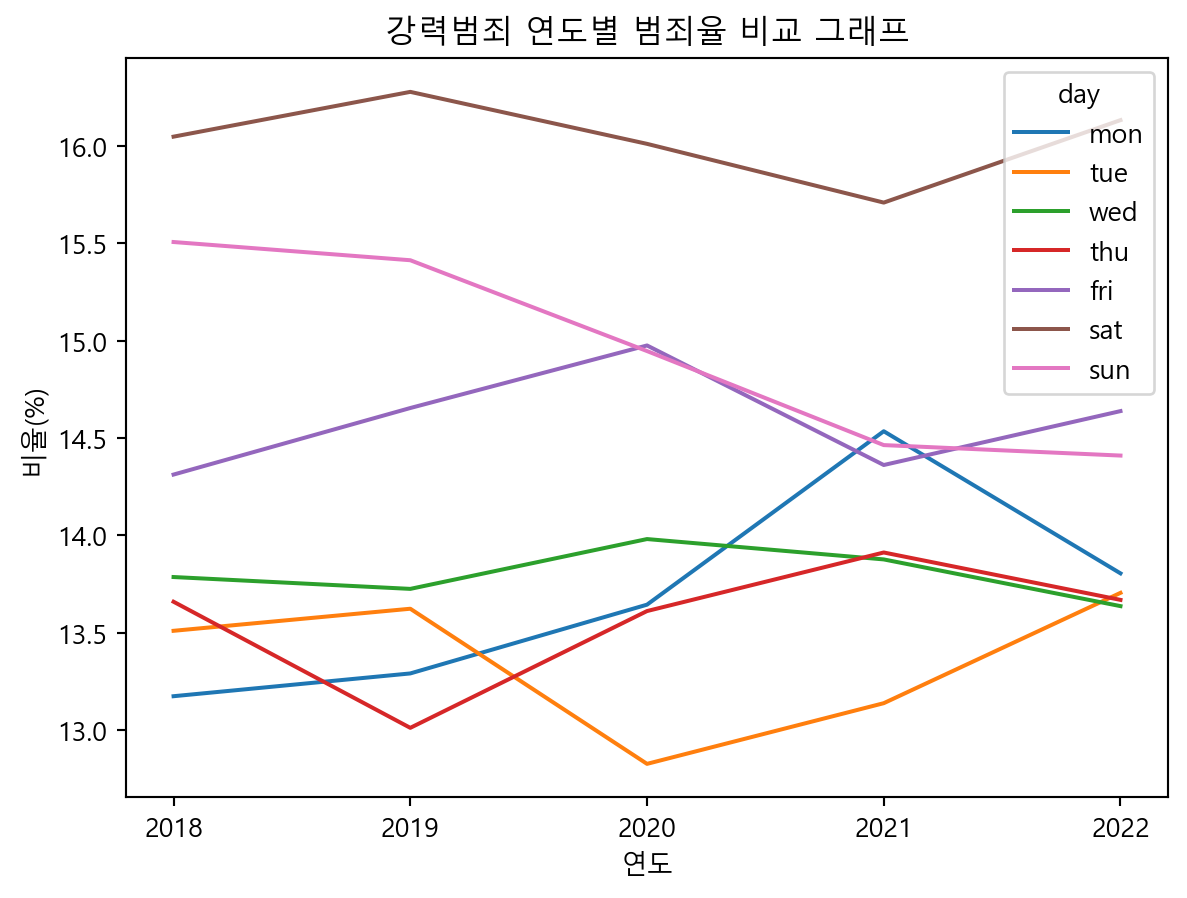
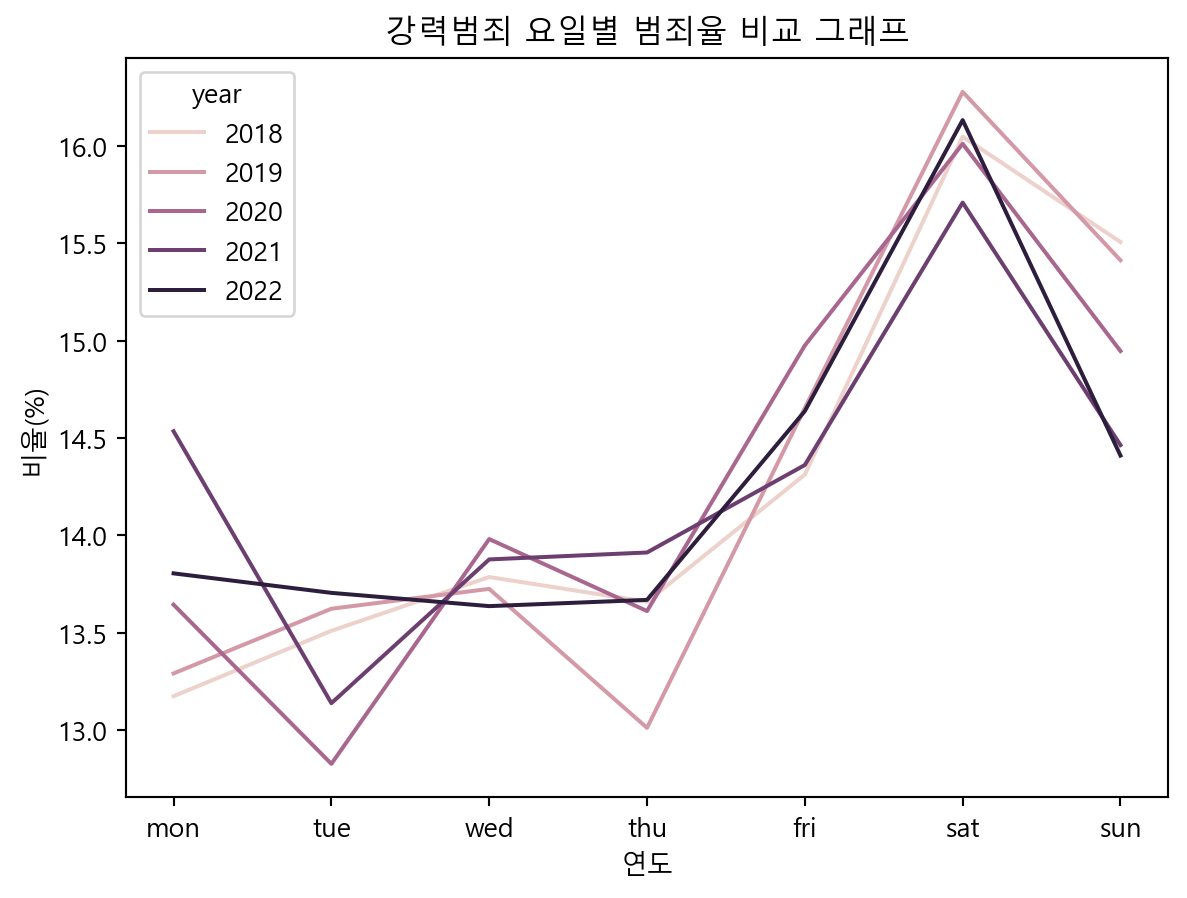
update5 - 0723

diff --git a/docs/index.html b/docs/index.html
@@ -103,7 +103,10 @@ pre > code.sourceCode > span > a:first-child::before { text-decoration: underlin
 }</script>
 <script src="https://cdnjs.cloudflare.com/ajax/libs/require.js/2.3.6/require.min.js" integrity="sha512-c3Nl8+7g4LMSTdrm621y7kf9v3SDPnhxLNhcjFJbKECVnmZHTdo+IRO05sNLTH/D3vA6u1X32ehoLC7WFVdheg==" crossorigin="anonymous"></script>
 
+
+
 <script type="application/javascript">define('jquery', [],function() {return window.jQuery;})</script>
+
 
 
 <link rel="stylesheet" href="styles.css">
@@ -217,7 +220,7 @@ pre > code.sourceCode > span > a:first-child::before { text-decoration: underlin
 <hr>
 <section id="데이터-로드" class="level3">
 <h3 class="anchored" data-anchor-id="데이터-로드"><strong>[데이터 로드]</strong></h3>
-<div id="f1536fa5" class="cell" data-execution_count="1">
+<div id="fb02dbea" class="cell" data-execution_count="1">
 <div class="sourceCode cell-code" id="cb1"><pre class="sourceCode python code-with-copy"><code class="sourceCode python"><span id="cb1-1"><a href="#cb1-1" aria-hidden="true" tabindex="-1"></a><span class="co"># 0. 패키지 로드</span></span>
 <span id="cb1-2"><a href="#cb1-2" aria-hidden="true" tabindex="-1"></a><span class="im">import</span> pandas <span class="im">as</span> pd</span>
 <span id="cb1-3"><a href="#cb1-3" aria-hidden="true" tabindex="-1"></a><span class="im">import</span> numpy <span class="im">as</span> np</span>
@@ -237,7 +240,7 @@ pre > code.sourceCode > span > a:first-child::before { text-decoration: underlin
 </section>
 <section id="변수명-변경" class="level3">
 <h3 class="anchored" data-anchor-id="변수명-변경"><strong>[변수명 변경]</strong></h3>
-<div id="a68c0b61" class="cell" data-execution_count="2">
+<div id="4c86ba8e" class="cell" data-execution_count="2">
 <div class="sourceCode cell-code" id="cb2"><pre class="sourceCode python code-with-copy"><code class="sourceCode python"><span id="cb2-1"><a href="#cb2-1" aria-hidden="true" tabindex="-1"></a><span class="co"># 3. 열 이름, 원소 이름 변경</span></span>
 <span id="cb2-2"><a href="#cb2-2" aria-hidden="true" tabindex="-1"></a><span class="co">## 열 이름 변경</span></span>
 <span id="cb2-3"><a href="#cb2-3" aria-hidden="true" tabindex="-1"></a><span class="co">### 강력범죄는 s_, 폭력범죄는 g_, 지능범죄는 i_로 시작하도록 변경</span></span>
@@ -265,12 +268,218 @@ pre > code.sourceCode > span > a:first-child::before { text-decoration: underlin
 <span id="cb2-25"><a href="#cb2-25" aria-hidden="true" tabindex="-1"></a>                       <span class="dv">15</span>, <span class="dv">16</span>, <span class="dv">17</span>, <span class="dv">18</span>, <span class="dv">19</span>, <span class="dv">20</span>, <span class="dv">14</span>,</span>
 <span id="cb2-26"><a href="#cb2-26" aria-hidden="true" tabindex="-1"></a>                       <span class="dv">22</span>, <span class="dv">23</span>, <span class="dv">24</span>, <span class="dv">25</span>, <span class="dv">26</span>, <span class="dv">27</span>, <span class="dv">21</span>,</span>
 <span id="cb2-27"><a href="#cb2-27" aria-hidden="true" tabindex="-1"></a>                       <span class="dv">29</span>, <span class="dv">30</span>, <span class="dv">31</span>, <span class="dv">32</span>, <span class="dv">33</span>, <span class="dv">34</span>, <span class="dv">28</span>])</span>
-<span id="cb2-28"><a href="#cb2-28" aria-hidden="true" tabindex="-1"></a><span class="co">#crime.head(7)</span></span></code><button title="Copy to Clipboard" class="code-copy-button"><i class="bi"></i></button></pre></div>
+<span id="cb2-28"><a href="#cb2-28" aria-hidden="true" tabindex="-1"></a>crime.head(<span class="dv">7</span>)</span></code><button title="Copy to Clipboard" class="code-copy-button"><i class="bi"></i></button></pre></div>
+<div class="cell-output cell-output-display" data-execution_count="2">
+<div>
+
+
+<table class="dataframe caption-top table table-sm table-striped small" data-quarto-postprocess="true" data-border="1">
+<thead>
+<tr class="header">
+<th data-quarto-table-cell-role="th"></th>
+<th data-quarto-table-cell-role="th">year</th>
+<th data-quarto-table-cell-role="th">day</th>
+<th data-quarto-table-cell-role="th">s_살인기수</th>
+<th data-quarto-table-cell-role="th">s_살인미수등</th>
+<th data-quarto-table-cell-role="th">s_강도</th>
+<th data-quarto-table-cell-role="th">s_강간</th>
+<th data-quarto-table-cell-role="th">s_유사강간</th>
+<th data-quarto-table-cell-role="th">s_강제추행</th>
+<th data-quarto-table-cell-role="th">s_기타 강간·강제추행등</th>
+<th data-quarto-table-cell-role="th">s_방화</th>
+<th data-quarto-table-cell-role="th">...</th>
+<th data-quarto-table-cell-role="th">g_손괴</th>
+<th data-quarto-table-cell-role="th">i_직무유기</th>
+<th data-quarto-table-cell-role="th">i_직권남용</th>
+<th data-quarto-table-cell-role="th">i_증수뢰</th>
+<th data-quarto-table-cell-role="th">i_통화</th>
+<th data-quarto-table-cell-role="th">i_문서·인장</th>
+<th data-quarto-table-cell-role="th">i_유가증권인지</th>
+<th data-quarto-table-cell-role="th">i_사기</th>
+<th data-quarto-table-cell-role="th">i_횡령</th>
+<th data-quarto-table-cell-role="th">i_배임</th>
+</tr>
+</thead>
+<tbody>
+<tr class="odd">
+<td data-quarto-table-cell-role="th">1</td>
+<td>2018</td>
+<td>mon</td>
+<td>40</td>
+<td>74</td>
+<td>120</td>
+<td>698</td>
+<td>113</td>
+<td>2197</td>
+<td>51</td>
+<td>236</td>
+<td>...</td>
+<td>7452</td>
+<td>105</td>
+<td>96</td>
+<td>53</td>
+<td>230</td>
+<td>2202</td>
+<td>20</td>
+<td>45478</td>
+<td>7968</td>
+<td>802</td>
+</tr>
+<tr class="even">
+<td data-quarto-table-cell-role="th">2</td>
+<td>2018</td>
+<td>tue</td>
+<td>38</td>
+<td>62</td>
+<td>133</td>
+<td>709</td>
+<td>103</td>
+<td>2263</td>
+<td>48</td>
+<td>263</td>
+<td>...</td>
+<td>7767</td>
+<td>92</td>
+<td>110</td>
+<td>57</td>
+<td>226</td>
+<td>1992</td>
+<td>25</td>
+<td>45020</td>
+<td>7793</td>
+<td>761</td>
+</tr>
+<tr class="odd">
+<td data-quarto-table-cell-role="th">3</td>
+<td>2018</td>
+<td>wed</td>
+<td>53</td>
+<td>68</td>
+<td>116</td>
+<td>743</td>
+<td>96</td>
+<td>2333</td>
+<td>49</td>
+<td>235</td>
+<td>...</td>
+<td>7681</td>
+<td>92</td>
+<td>110</td>
+<td>69</td>
+<td>208</td>
+<td>1893</td>
+<td>30</td>
+<td>45399</td>
+<td>7922</td>
+<td>725</td>
+</tr>
+<tr class="even">
+<td data-quarto-table-cell-role="th">4</td>
+<td>2018</td>
+<td>thu</td>
+<td>41</td>
+<td>76</td>
+<td>117</td>
+<td>646</td>
+<td>99</td>
+<td>2389</td>
+<td>45</td>
+<td>246</td>
+<td>...</td>
+<td>7514</td>
+<td>114</td>
+<td>110</td>
+<td>64</td>
+<td>242</td>
+<td>2710</td>
+<td>32</td>
+<td>45752</td>
+<td>7992</td>
+<td>730</td>
+</tr>
+<tr class="odd">
+<td data-quarto-table-cell-role="th">5</td>
+<td>2018</td>
+<td>fri</td>
+<td>54</td>
+<td>67</td>
+<td>101</td>
+<td>699</td>
+<td>99</td>
+<td>2547</td>
+<td>55</td>
+<td>212</td>
+<td>...</td>
+<td>8591</td>
+<td>103</td>
+<td>104</td>
+<td>61</td>
+<td>212</td>
+<td>1991</td>
+<td>58</td>
+<td>46698</td>
+<td>8817</td>
+<td>790</td>
+</tr>
+<tr class="even">
+<td data-quarto-table-cell-role="th">6</td>
+<td>2018</td>
+<td>sat</td>
+<td>29</td>
+<td>69</td>
+<td>108</td>
+<td>892</td>
+<td>139</td>
+<td>2760</td>
+<td>59</td>
+<td>243</td>
+<td>...</td>
+<td>9200</td>
+<td>36</td>
+<td>40</td>
+<td>21</td>
+<td>42</td>
+<td>829</td>
+<td>15</td>
+<td>22158</td>
+<td>7819</td>
+<td>288</td>
+</tr>
+<tr class="odd">
+<td data-quarto-table-cell-role="th">0</td>
+<td>2018</td>
+<td>sun</td>
+<td>54</td>
+<td>72</td>
+<td>126</td>
+<td>906</td>
+<td>127</td>
+<td>2564</td>
+<td>49</td>
+<td>256</td>
+<td>...</td>
+<td>8479</td>
+<td>39</td>
+<td>33</td>
+<td>22</td>
+<td>34</td>
+<td>673</td>
+<td>17</td>
+<td>19524</td>
+<td>6802</td>
+<td>248</td>
+</tr>
+</tbody>
+</table>
+
+<p>7 rows × 27 columns</p>
+</div>
+</div>
 </div>
 </section>
 <section id="파생변수-추가" class="level3">
 <h3 class="anchored" data-anchor-id="파생변수-추가"><strong>[파생변수 추가]</strong></h3>
-<div id="23ad6429" class="cell" data-execution_count="3">
+<div id="8fda6231" class="cell" data-execution_count="3">
 <div class="sourceCode cell-code" id="cb3"><pre class="sourceCode python code-with-copy"><code class="sourceCode python"><span id="cb3-1"><a href="#cb3-1" aria-hidden="true" tabindex="-1"></a><span class="co"># 4. 파생변수 추가</span></span>
 <span id="cb3-2"><a href="#cb3-2" aria-hidden="true" tabindex="-1"></a><span class="co">## 범죄별 건수 합계 및 총 범죄 건수 합계 파생변수</span></span>
 <span id="cb3-3"><a href="#cb3-3" aria-hidden="true" tabindex="-1"></a>crime <span class="op">=</span> crime.assign(</span>
@@ -495,7 +704,7 @@ pre > code.sourceCode > span > a:first-child::before { text-decoration: underlin
 </section>
 <section id="범죄별-평일주말별-건수-합계-그래프" class="level3">
 <h3 class="anchored" data-anchor-id="범죄별-평일주말별-건수-합계-그래프"><strong>[범죄별, 평일/주말별 건수 합계 그래프]</strong></h3>
-<div id="b9eb9ba2" class="cell" data-execution_count="4">
+<div id="e4634e49" class="cell" data-execution_count="4">
 <div class="sourceCode cell-code" id="cb4"><pre class="sourceCode python code-with-copy"><code class="sourceCode python"><span id="cb4-1"><a href="#cb4-1" aria-hidden="true" tabindex="-1"></a><span class="co"># 5. (1)발생 건수 합계 기준 그래프</span></span>
 <span id="cb4-2"><a href="#cb4-2" aria-hidden="true" tabindex="-1"></a><span class="co">## 연도 기준 범죄별 건수 합계</span></span>
 <span id="cb4-3"><a href="#cb4-3" aria-hidden="true" tabindex="-1"></a><span class="co">### 그래프 설정</span></span>
@@ -570,7 +779,7 @@ pre > code.sourceCode > span > a:first-child::before { text-decoration: underlin
 </section>
 <section id="범죄별-요일별-건수-비율-그래프" class="level3">
 <h3 class="anchored" data-anchor-id="범죄별-요일별-건수-비율-그래프"><strong>[범죄별 요일별 건수 비율 그래프]</strong></h3>
-<div id="b411aec1" class="cell" data-execution_count="5">
+<div id="d944529f" class="cell" data-execution_count="5">
 <div class="sourceCode cell-code" id="cb7"><pre class="sourceCode python code-with-copy"><code class="sourceCode python"><span id="cb7-1"><a href="#cb7-1" aria-hidden="true" tabindex="-1"></a><span class="co"># 5. (2)연도별 범죄 발생 비율 파생변수 추가</span></span>
 <span id="cb7-2"><a href="#cb7-2" aria-hidden="true" tabindex="-1"></a><span class="co">## pd.options.display.float_format : 소수점 둘째 자리까지만 보이도록 설정</span></span>
 <span id="cb7-3"><a href="#cb7-3" aria-hidden="true" tabindex="-1"></a>pd.options.display.float_format <span class="op">=</span> <span class="st">'</span><span class="sc">{:.2f}</span><span class="st">'</span>.<span class="bu">format</span></span>
@@ -797,7 +1006,7 @@ pre > code.sourceCode > span > a:first-child::before { text-decoration: underlin
 </div>
 </div>
 </div>
-<div id="9a182012" class="cell" data-execution_count="6">
+<div id="855a435f" class="cell" data-execution_count="6">
 <div class="sourceCode cell-code" id="cb8"><pre class="sourceCode python code-with-copy"><code class="sourceCode python"><span id="cb8-1"><a href="#cb8-1" aria-hidden="true" tabindex="-1"></a><span class="co"># 5. (3)연도/요일별 범죄 발생 비율 변화 그래프</span></span>
 <span id="cb8-2"><a href="#cb8-2" aria-hidden="true" tabindex="-1"></a><span class="co">## 연도/요일별 범죄 발생 비율표 생성</span></span>
 <span id="cb8-3"><a href="#cb8-3" aria-hidden="true" tabindex="-1"></a>ratio_year_day <span class="op">=</span> crime.iloc[:, [<span class="dv">0</span>, <span class="dv">1</span>, <span class="op">-</span><span class="dv">7</span>, <span class="op">-</span><span class="dv">5</span>, <span class="op">-</span><span class="dv">3</span>, <span class="op">-</span><span class="dv">1</span>]]</span>
@@ -805,40 +1014,36 @@ pre > code.sourceCode > span > a:first-child::before { text-decoration: underlin
 <span id="cb8-5"><a href="#cb8-5" aria-hidden="true" tabindex="-1"></a></span>
 <span id="cb8-6"><a href="#cb8-6" aria-hidden="true" tabindex="-1"></a><span class="co">## 강력범죄 연도/요일별 범죄 발생 비율 변화 그래프</span></span>
 <span id="cb8-7"><a href="#cb8-7" aria-hidden="true" tabindex="-1"></a><span class="co">### plt.xticks() : x축의 범위를 2018~2022로 설정</span></span>
-<span id="cb8-8"><a href="#cb8-8" aria-hidden="true" tabindex="-1"></a>sns.lineplot(data <span class="op">=</span> ratio_year_day, x <span class="op">=</span> <span class="st">'year'</span>, y <span class="op">=</span> <span class="st">'ratio_s_day'</span>, hue <span class="op">=</span> <span class="st">'day'</span>)</span>
-<span id="cb8-9"><a href="#cb8-9" aria-hidden="true" tabindex="-1"></a>plt.xticks(np.arange(<span class="dv">2018</span>, <span class="dv">2023</span>))</span>
-<span id="cb8-10"><a href="#cb8-10" aria-hidden="true" tabindex="-1"></a>plt.xlabel(<span class="st">"연도"</span>)</span>
-<span id="cb8-11"><a href="#cb8-11" aria-hidden="true" tabindex="-1"></a>plt.ylabel(<span class="st">"비율(%)"</span>)</span>
-<span id="cb8-12"><a href="#cb8-12" aria-hidden="true" tabindex="-1"></a>plt.title(<span class="st">"강력범죄 연도별 범죄율 비교 그래프"</span>)</span>
-<span id="cb8-13"><a href="#cb8-13" aria-hidden="true" tabindex="-1"></a>plt.show()</span>
-<span id="cb8-14"><a href="#cb8-14" aria-hidden="true" tabindex="-1"></a>plt.clf()</span>
-<span id="cb8-15"><a href="#cb8-15" aria-hidden="true" tabindex="-1"></a></span>
-<span id="cb8-16"><a href="#cb8-16" aria-hidden="true" tabindex="-1"></a><span class="co">## 폭력범죄 연도/요일별 범죄 발생 비율 변화 그래프</span></span>
-<span id="cb8-17"><a href="#cb8-17" aria-hidden="true" tabindex="-1"></a>sns.lineplot(data <span class="op">=</span> ratio_year_day, x <span class="op">=</span> <span class="st">'year'</span>, y <span class="op">=</span> <span class="st">'ratio_g_day'</span>, hue <span class="op">=</span> <span class="st">'day'</span>)</span>
-<span id="cb8-18"><a href="#cb8-18" aria-hidden="true" tabindex="-1"></a>plt.xticks(np.arange(<span class="dv">2018</span>, <span class="dv">2023</span>))</span>
-<span id="cb8-19"><a href="#cb8-19" aria-hidden="true" tabindex="-1"></a>plt.xlabel(<span class="st">"연도"</span>)</span>
-<span id="cb8-20"><a href="#cb8-20" aria-hidden="true" tabindex="-1"></a>plt.ylabel(<span class="st">"비율(%)"</span>)</span>
-<span id="cb8-21"><a href="#cb8-21" aria-hidden="true" tabindex="-1"></a>plt.title(<span class="st">"폭력범죄 연도별 범죄율 비교 그래프"</span>)</span>
-<span id="cb8-22"><a href="#cb8-22" aria-hidden="true" tabindex="-1"></a>plt.show()</span>
-<span id="cb8-23"><a href="#cb8-23" aria-hidden="true" tabindex="-1"></a>plt.clf()</span>
-<span id="cb8-24"><a href="#cb8-24" aria-hidden="true" tabindex="-1"></a></span>
-<span id="cb8-25"><a href="#cb8-25" aria-hidden="true" tabindex="-1"></a><span class="co">## 지능범죄 연도/요일별 범죄 발생 비율 변화 그래프</span></span>
-<span id="cb8-26"><a href="#cb8-26" aria-hidden="true" tabindex="-1"></a>sns.lineplot(data <span class="op">=</span> ratio_year_day, x <span class="op">=</span> <span class="st">'year'</span>, y <span class="op">=</span> <span class="st">'ratio_i_day'</span>, hue <span class="op">=</span> <span class="st">'day'</span>)</span>
-<span id="cb8-27"><a href="#cb8-27" aria-hidden="true" tabindex="-1"></a>plt.xticks(np.arange(<span class="dv">2018</span>, <span class="dv">2023</span>))</span>
-<span id="cb8-28"><a href="#cb8-28" aria-hidden="true" tabindex="-1"></a>plt.xlabel(<span class="st">"연도"</span>)</span>
-<span id="cb8-29"><a href="#cb8-29" aria-hidden="true" tabindex="-1"></a>plt.ylabel(<span class="st">"비율(%)"</span>)</span>
-<span id="cb8-30"><a href="#cb8-30" aria-hidden="true" tabindex="-1"></a>plt.title(<span class="st">"지능범죄 연도별 범죄율 비교 그래프"</span>)</span>
-<span id="cb8-31"><a href="#cb8-31" aria-hidden="true" tabindex="-1"></a>plt.show()</span>
-<span id="cb8-32"><a href="#cb8-32" aria-hidden="true" tabindex="-1"></a>plt.clf()</span>
-<span id="cb8-33"><a href="#cb8-33" aria-hidden="true" tabindex="-1"></a></span>
-<span id="cb8-34"><a href="#cb8-34" aria-hidden="true" tabindex="-1"></a><span class="co">## 전체 범죄 연도/요일별 범죄 발생 비율 변화 그래프</span></span>
-<span id="cb8-35"><a href="#cb8-35" aria-hidden="true" tabindex="-1"></a>sns.lineplot(data <span class="op">=</span> ratio_year_day, x <span class="op">=</span> <span class="st">'year'</span>, y <span class="op">=</span> <span class="st">'ratio_day'</span>, hue <span class="op">=</span> <span class="st">'day'</span>)</span>
-<span id="cb8-36"><a href="#cb8-36" aria-hidden="true" tabindex="-1"></a>plt.xticks(np.arange(<span class="dv">2018</span>, <span class="dv">2023</span>))</span>
-<span id="cb8-37"><a href="#cb8-37" aria-hidden="true" tabindex="-1"></a>plt.xlabel(<span class="st">"연도"</span>)</span>
-<span id="cb8-38"><a href="#cb8-38" aria-hidden="true" tabindex="-1"></a>plt.ylabel(<span class="st">"비율(%)"</span>)</span>
-<span id="cb8-39"><a href="#cb8-39" aria-hidden="true" tabindex="-1"></a>plt.title(<span class="st">"전체 범죄 연도별 범죄율 비교 그래프"</span>)</span>
-<span id="cb8-40"><a href="#cb8-40" aria-hidden="true" tabindex="-1"></a>plt.show()</span>
-<span id="cb8-41"><a href="#cb8-41" aria-hidden="true" tabindex="-1"></a>plt.clf()</span></code><button title="Copy to Clipboard" class="code-copy-button"><i class="bi"></i></button></pre></div>
+<span id="cb8-8"><a href="#cb8-8" aria-hidden="true" tabindex="-1"></a>sns.lineplot(data <span class="op">=</span> ratio_year_day, x <span class="op">=</span> <span class="st">'day'</span>, y <span class="op">=</span> <span class="st">'ratio_s_day'</span>, hue <span class="op">=</span> <span class="st">'year'</span>)</span>
+<span id="cb8-9"><a href="#cb8-9" aria-hidden="true" tabindex="-1"></a>plt.xlabel(<span class="st">"연도"</span>)</span>
+<span id="cb8-10"><a href="#cb8-10" aria-hidden="true" tabindex="-1"></a>plt.ylabel(<span class="st">"비율(%)"</span>)</span>
+<span id="cb8-11"><a href="#cb8-11" aria-hidden="true" tabindex="-1"></a>plt.title(<span class="st">"강력범죄 요일별 범죄율 비교 그래프"</span>)</span>
+<span id="cb8-12"><a href="#cb8-12" aria-hidden="true" tabindex="-1"></a>plt.show()</span>
+<span id="cb8-13"><a href="#cb8-13" aria-hidden="true" tabindex="-1"></a>plt.clf()</span>
+<span id="cb8-14"><a href="#cb8-14" aria-hidden="true" tabindex="-1"></a></span>
+<span id="cb8-15"><a href="#cb8-15" aria-hidden="true" tabindex="-1"></a><span class="co">## 폭력범죄 연도/요일별 범죄 발생 비율 변화 그래프</span></span>
+<span id="cb8-16"><a href="#cb8-16" aria-hidden="true" tabindex="-1"></a>sns.lineplot(data <span class="op">=</span> ratio_year_day, x <span class="op">=</span> <span class="st">'day'</span>, y <span class="op">=</span> <span class="st">'ratio_g_day'</span>, hue <span class="op">=</span> <span class="st">'year'</span>)</span>
+<span id="cb8-17"><a href="#cb8-17" aria-hidden="true" tabindex="-1"></a>plt.xlabel(<span class="st">"연도"</span>)</span>
+<span id="cb8-18"><a href="#cb8-18" aria-hidden="true" tabindex="-1"></a>plt.ylabel(<span class="st">"비율(%)"</span>)</span>
+<span id="cb8-19"><a href="#cb8-19" aria-hidden="true" tabindex="-1"></a>plt.title(<span class="st">"폭력범죄 요일별 범죄율 비교 그래프"</span>)</span>
+<span id="cb8-20"><a href="#cb8-20" aria-hidden="true" tabindex="-1"></a>plt.show()</span>
+<span id="cb8-21"><a href="#cb8-21" aria-hidden="true" tabindex="-1"></a>plt.clf()</span>
+<span id="cb8-22"><a href="#cb8-22" aria-hidden="true" tabindex="-1"></a></span>
+<span id="cb8-23"><a href="#cb8-23" aria-hidden="true" tabindex="-1"></a><span class="co">## 지능범죄 연도/요일별 범죄 발생 비율 변화 그래프</span></span>
+<span id="cb8-24"><a href="#cb8-24" aria-hidden="true" tabindex="-1"></a>sns.lineplot(data<span class="op">=</span>ratio_year_day, x<span class="op">=</span><span class="st">'day'</span>, y<span class="op">=</span><span class="st">'ratio_i_day'</span>, hue<span class="op">=</span><span class="st">'year'</span>)</span>
+<span id="cb8-25"><a href="#cb8-25" aria-hidden="true" tabindex="-1"></a>plt.xlabel(<span class="st">"연도"</span>)</span>
+<span id="cb8-26"><a href="#cb8-26" aria-hidden="true" tabindex="-1"></a>plt.ylabel(<span class="st">"비율(%)"</span>)</span>
+<span id="cb8-27"><a href="#cb8-27" aria-hidden="true" tabindex="-1"></a>plt.title(<span class="st">"지능범죄 요일별 범죄율 비교 그래프"</span>)</span>
+<span id="cb8-28"><a href="#cb8-28" aria-hidden="true" tabindex="-1"></a>plt.show()</span>
+<span id="cb8-29"><a href="#cb8-29" aria-hidden="true" tabindex="-1"></a>plt.clf()</span>
+<span id="cb8-30"><a href="#cb8-30" aria-hidden="true" tabindex="-1"></a></span>
+<span id="cb8-31"><a href="#cb8-31" aria-hidden="true" tabindex="-1"></a><span class="co">## 전체 범죄 연도/요일별 범죄 발생 비율 변화 그래프</span></span>
+<span id="cb8-32"><a href="#cb8-32" aria-hidden="true" tabindex="-1"></a>sns.lineplot(data<span class="op">=</span>ratio_year_day, x<span class="op">=</span><span class="st">'day'</span>, y<span class="op">=</span><span class="st">'ratio_day'</span>, hue<span class="op">=</span><span class="st">'year'</span>)</span>
+<span id="cb8-33"><a href="#cb8-33" aria-hidden="true" tabindex="-1"></a>plt.xlabel(<span class="st">"연도"</span>)</span>
+<span id="cb8-34"><a href="#cb8-34" aria-hidden="true" tabindex="-1"></a>plt.ylabel(<span class="st">"비율(%)"</span>)</span>
+<span id="cb8-35"><a href="#cb8-35" aria-hidden="true" tabindex="-1"></a>plt.title(<span class="st">"전체 범죄 요일별 범죄율 비교 그래프"</span>)</span>
+<span id="cb8-36"><a href="#cb8-36" aria-hidden="true" tabindex="-1"></a>plt.show()</span>
+<span id="cb8-37"><a href="#cb8-37" aria-hidden="true" tabindex="-1"></a>plt.clf()</span></code><button title="Copy to Clipboard" class="code-copy-button"><i class="bi"></i></button></pre></div>
 <div class="cell-output cell-output-display">
 <div>
 <figure class="figure">
@@ -882,12 +1087,12 @@ pre > code.sourceCode > span > a:first-child::before { text-decoration: underlin
 </div>
 <div class="callout-body-container callout-body">
 <dl>
-<dt>범죄별 그래프로 각 범죄의 연도 기준 요일별 발생 비율은 파악할 수 있으나,</dt>
+<dt>범죄별 그래프로 각 범죄의 요일별 발생 비율은 파악할 수 있으나,</dt>
 <dd>
 <strong>지능범죄의 주말 발생 건수가 현저히 낮아 전체 그래프에서 왜곡이 발생</strong>
 </dd>
 <dd>
-따라서, 연도 기준 전체 그래프로 비교하는데 오류가 있다는 판단
+따라서, 연도 기준으로 데이터를 비교하는데 오류가 있다는 판단
 </dd>
 </dl>
 </div>
@@ -895,7 +1100,7 @@ pre > code.sourceCode > span > a:first-child::before { text-decoration: underlin
 </section>
 <section id="요일-기준-범죄별-비율-비교-그래프" class="level3">
 <h3 class="anchored" data-anchor-id="요일-기준-범죄별-비율-비교-그래프"><strong>[요일 기준 범죄별 비율 비교 그래프]</strong></h3>
-<div id="a192c1a2" class="cell" data-execution_count="7">
+<div id="8fd9ee14" class="cell" data-execution_count="7">
 <div class="sourceCode cell-code" id="cb10"><pre class="sourceCode python code-with-copy"><code class="sourceCode python"><span id="cb10-1"><a href="#cb10-1" aria-hidden="true" tabindex="-1"></a><span class="co"># 6. 요일별 전체 범죄 발생 비율 그래프</span></span>
 <span id="cb10-2"><a href="#cb10-2" aria-hidden="true" tabindex="-1"></a><span class="co">## 요일별 전체 범죄 발생 비율표 생성</span></span>
 <span id="cb10-3"><a href="#cb10-3" aria-hidden="true" tabindex="-1"></a>total_day <span class="op">=</span> crime.groupby(<span class="st">'day'</span>) <span class="op">\</span></span>
